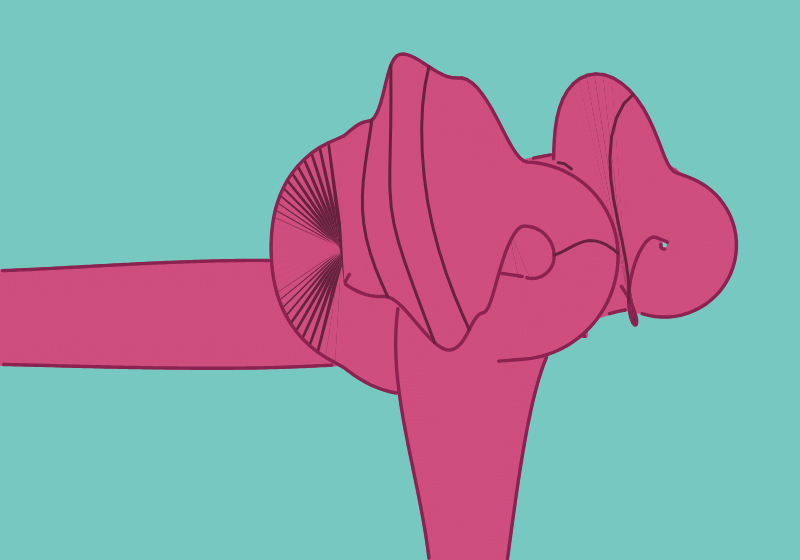
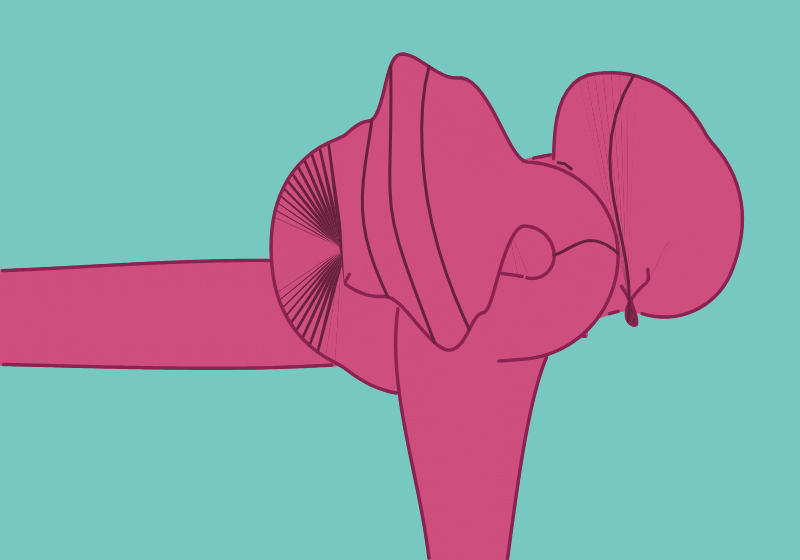
A-bow-study-v2: the fold's pinch has one home, so the width series has no apex
The right fold's width was crushed at 0.92 of the band's route length and again at the fold
turn's own middle, 15 stations later. The band's belly had to be reached in 16 stations and
given back in 15; two cosine ramps that short turn the emitted width series at
(pi^2/2)(dh/N^2) = 1.9 + 2.1 half-width px per station^2 at their apex, which the continuity
test read as a piece boundary (isolation 3.58 px against its 3.0 px limit).

The pinch keeps the home the left fold already uses, the turn's middle (P(6,0.5)). Route,
turn count and loop count are unchanged; the band's belly keeps its value and gains 36
stations to fall over. Emitted: isolation 2.69 px, steepest step 18.44 px, knot waist 0.45
(was 0.54), 17 audited crossings with the depth break intact, 1240 triangles, 0 disagreeing
with their own winding. The inherited test files are untouched.

Changed region(s): [[0.75, 0.1214, 0.9375, 0.4554], [0.7812, 0.425, 0.8438, 0.5768]]

diff --git a/.scratch/35-r1-articulated-study/evidence/A-bow-study-v2/source/parts/bow.py b/.scratch/35-r1-articulated-study/evidence/A-bow-study-v2/source/parts/bow.py
@@ -144,10 +144,16 @@ def _fields(parts):
         (P(3, 0.5), H_FOLD),                                   # the fold: R_FOLD - h = 28 px
         (P(4, 0.30), 118.0), (P(4, 0.58), HALF_WIDTH), (P(4, 0.86), 86.0),
         (P(5, 0.30), H_KNOT),                                  # the band, crushed at the knot
-        (P(5, 0.62), 128.0), (P(5, 0.92), H_FOLD),
-        (P(6, 0.5), H_FOLD),
+        # The band's belly, and then NO pinch here: the fold's pinch has one home, the fold
+        # turn's own middle (P(6, 0.5)), the way the left fold's pinch sits at P(3, 0.5).
+        # Stating it a second time at the band's end put the crush and the pinch 15 stations
+        # apart, and two cosine ramps that short turn the width series at
+        # (pi^2/2)(dh/N^2) = 1.9 + 2.1 half-width px per station^2 at their apex - a turn
+        # no cloth makes, which is what the isolation test read as a piece boundary.
+        (P(5, 0.62), 128.0),
+        (P(6, 0.5), H_FOLD),                                   # the right fold's pinch
         (P(7, 0.02), H_FOLD),
-        (P(7, 0.60), 104.0), (P(7, 0.98), 92.0),   # one ramp each way: the part is short   # one ramp each way: the part is short
+        (P(7, 0.60), 104.0), (P(7, 0.98), 92.0),   # one ramp each way: the part is short
         (P(8, 0.12), H_KNOT), (P(8, 0.45), 96.0), (1.0, 122.0),  # lower tail: crushed, then broad
     ])
     # Each swing between two levels sits inside a turn (the fold on the way out of a lobe,
